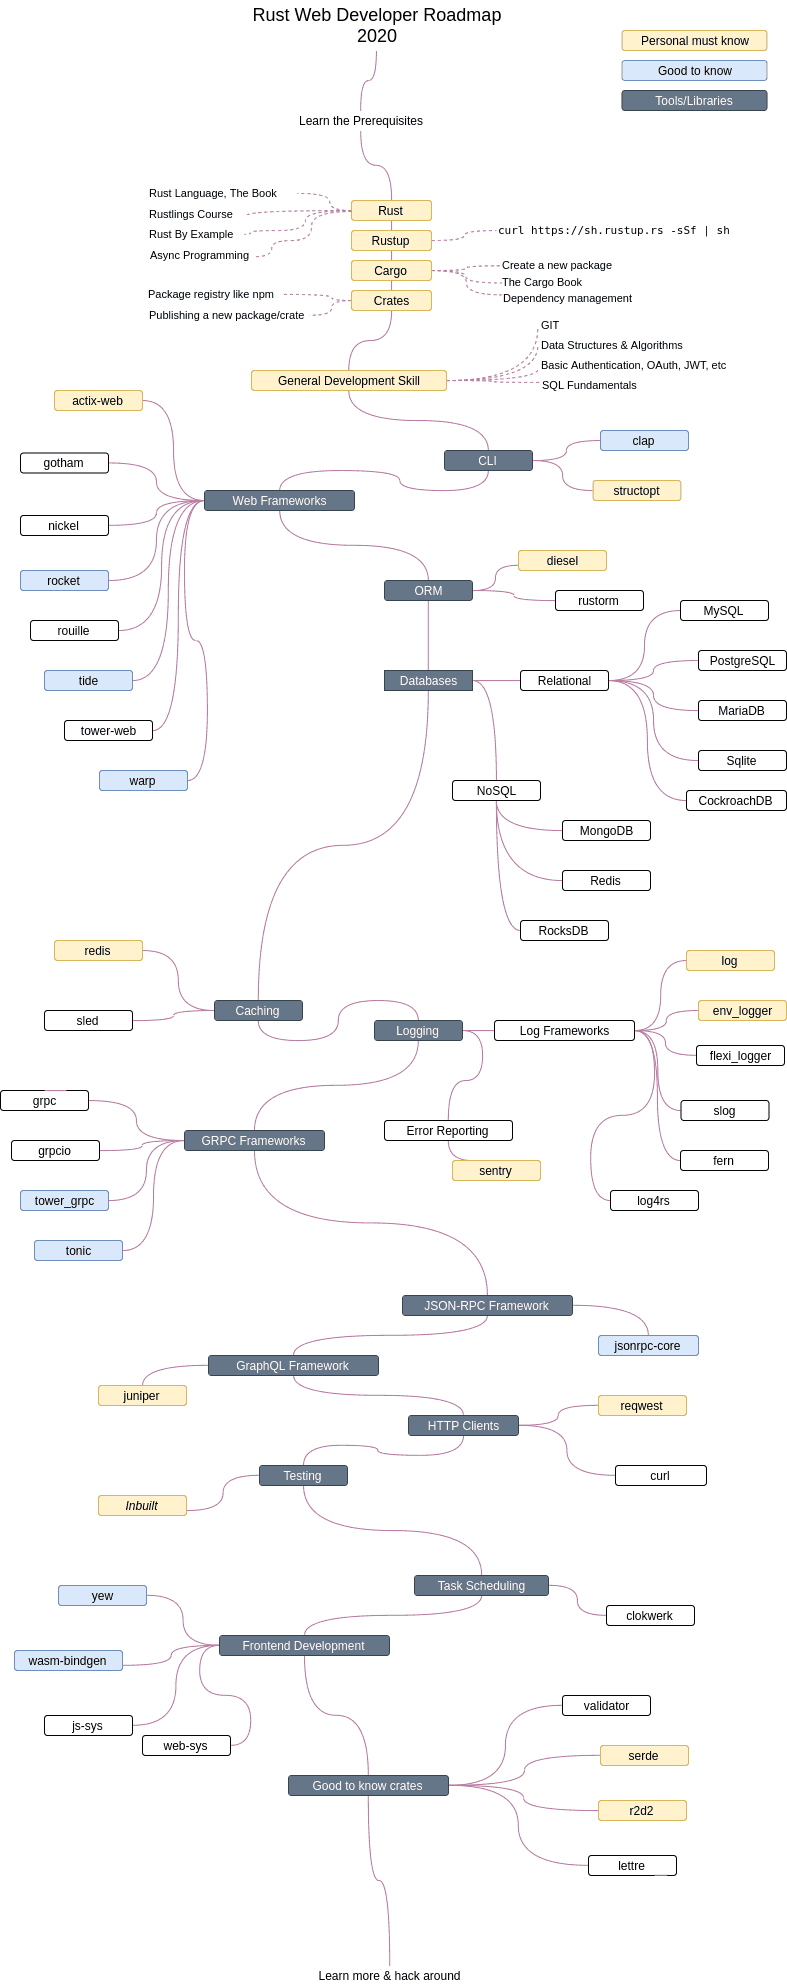
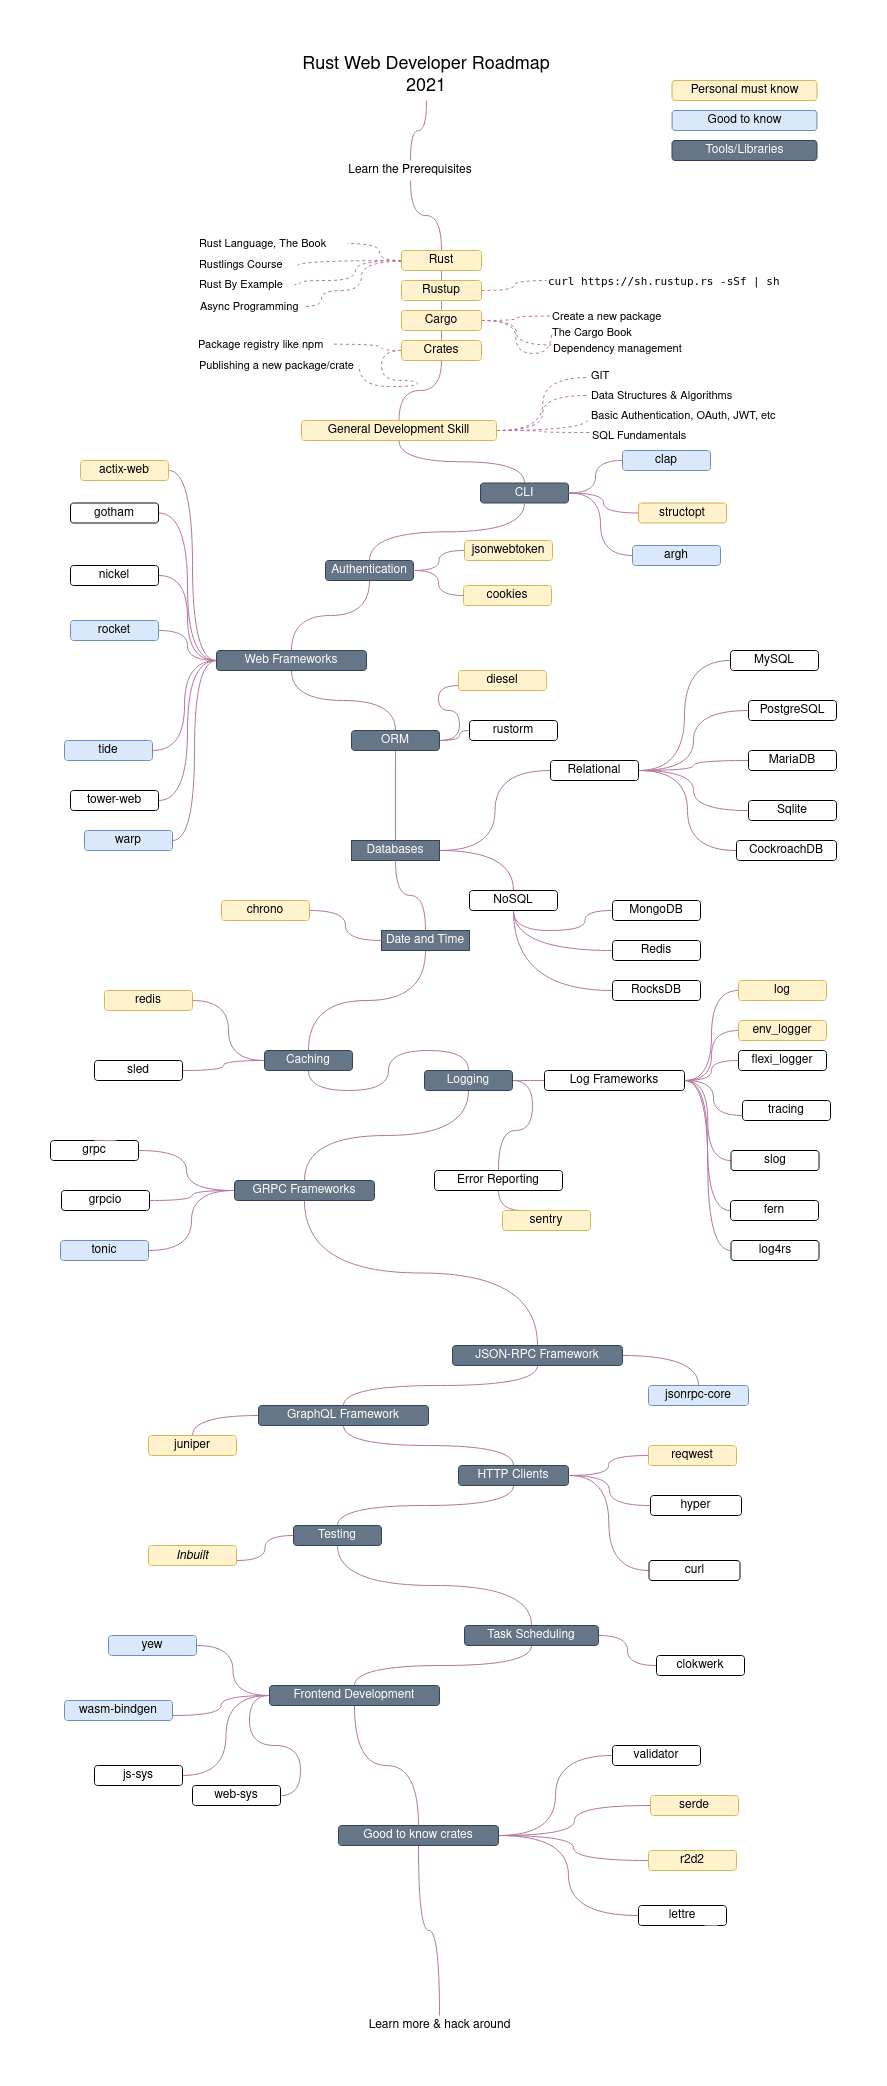
minor update for 2021

diff --git a/README.md b/README.md
@@ -1,6 +1,6 @@
 # Rust Web Developer Roadmap
 
-> Roadmap to becoming a [Rust](https://www.rust-lang.org/) web developer in 2020:
+> Roadmap to becoming a [Rust](https://www.rust-lang.org/) web developer in 2021:
 
 Below you can find a chart demonstrating the path you may take and the libraries you may require to become a Rust Web Developer. This chart is made with inspiration from [Golang Developer Roadmap](https://github.com/Alikhll/golang-developer-roadmap/).
 
@@ -29,6 +29,7 @@ Below you can find a chart demonstrating the path you may take and the libraries
 
    - [clap](https://crates.io/crates/clap)
    - [structopt](https://crates.io/crates/structopt)
+   - [argh](https://crates.io/crates/argh)
 
 3. Web Frameworks
 
@@ -36,7 +37,6 @@ Below you can find a chart demonstrating the path you may take and the libraries
    - [gotham](https://crates.io/crates/gotham)
    - [nickel](https://crates.io/crates/nickel)
    - [rocket](https://crates.io/crates/rocket)
-   - [rouille](https://crates.io/crates/rouille)
    - [tide](https://crates.io/crates/tide)
    - [tower-web](https://crates.io/crates/tower-web)
    - [warp](https://crates.io/crates/warp)
@@ -65,8 +65,7 @@ Below you can find a chart demonstrating the path you may take and the libraries
 
    - [grpc](https://crates.io/crates/grpc)
    - [grpcio](https://crates.io/crates/grpcio)
-   - [tower_grpc](https://github.com/tower-rs/tower-grpc)
-   - [tonic](https://github.com/hyperium/tonic)
+   - [tonic](https://crates.io/crates/tonic)
 
 8. JSON-RPC Framework
 
